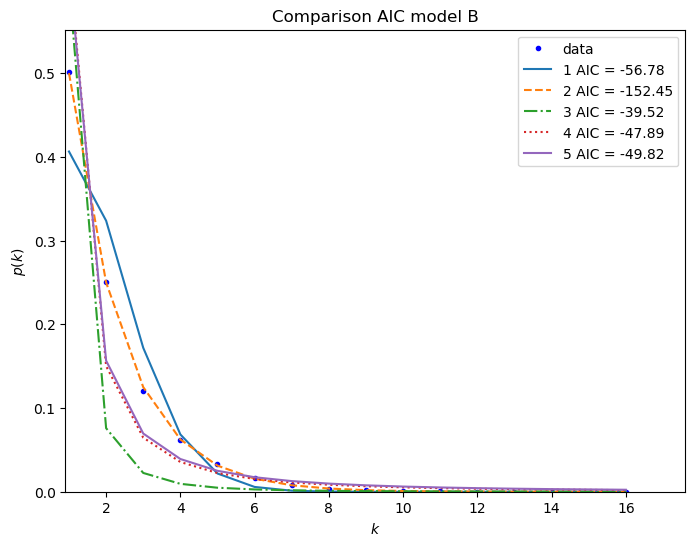
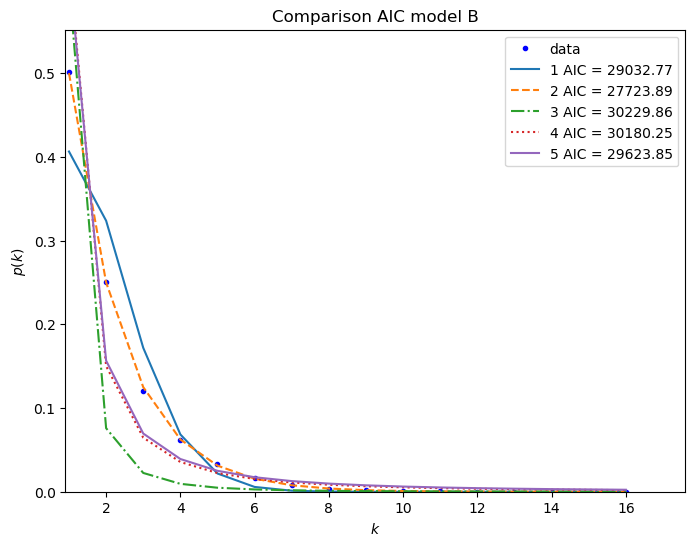
Fix AIC for MLE

Changed region(s): [[0.7221, 0.0623, 0.9628, 0.3114], [0.7221, 0.1245, 0.7521, 0.3114]]

diff --git a/lab6/fitcore.py b/lab6/fitcore.py
@@ -97,7 +97,7 @@ class Fit:
 		self.verbose = verbose
 		self.loss = 'soft_l1'
 		self.info = info
-		self.use_mle = mle
+		self.mle = mle
 		self.evolution = evolution
 
 		# Models should be initialized before, so we can add fine params at the
@@ -125,7 +125,7 @@ class Fit:
 
 		warnings.filterwarnings("ignore")
 
-		if self.use_mle:
+		if self.mle:
 			return self.fit_model_mle(model)
 
 		try:
@@ -166,6 +166,31 @@ class Fit:
 
 		model.measures = {'AIC':AIC, 'RSS':RSS} 
 
+	def measure_model_mle(self, model):
+		n = self.n
+		x = self.x
+		y = self.y
+
+		# Compute residual sum of squares RSS
+		L = model.mll(*model.fitted_params)
+		yy = model.run(x)
+		RSS = np.sum((y - yy)**2)
+
+		# Compute Akaike information criterion
+		# XXX Ugly hack: How we access N?
+		N = model.info['N']
+		K = model.get_nparams()
+		AIC = 2*L - 2*K*(N/(N-K-1))
+
+		p = 0
+		AIC2 = n*np.log(2*np.pi) + n*np.log(RSS/n) + n + 2*(p + 1)
+		print('AIC = {} AIC2 = {}'.format(AIC, AIC2))
+
+		# Compute pearson r
+		#pr, pval = pearsonr(y, yy)
+
+		model.measures = {'AIC':AIC, 'AIC2':AIC2, 'RSS':RSS} 
+
 	def best_model(self, measure):
 		if measure == 'AIC':
 			AICs = [m.measures[measure] for m in self.models]
@@ -178,7 +203,10 @@ class Fit:
 			if(self.verbose):
 				print("  Testing model {}".format(model.get_name()))
 			self.fit_model(model)
-			self.measure_model(model)
+			if self.mle == True:
+				self.measure_model_mle(model)
+			else:
+				self.measure_model(model)
 
 class TeXTable:
 	def __init__(self, fits):

diff --git a/lab6/table/AIC_dd.tex b/lab6/table/AIC_dd.tex
@@ -1,11 +1,11 @@
 \begin{tabular}{rrrr}
 \toprule
-     &      A &       B &       C \\
+     &        A &        B &        C \\
 \midrule
-   1 & \num{96.625} &  \num{95.676} &   \num{0.000} \\
-   2 & \num{52.683} &   \num{0.000} &   \num{7.687} \\
-   3 & \num{62.506} & \num{112.933} & \num{108.152} \\
-   4 & \num{32.408} & \num{104.567} & \num{108.202} \\
-   5 &  \num{0.000} & \num{102.636} & \num{110.078} \\
+   1 & \num{7245.741} & \num{1308.885} &  \num{776.040} \\
+   2 & \num{1097.608} &    \num{0.000} &    \num{0.000} \\
+   3 &  \num{606.012} & \num{2505.972} & \num{6112.841} \\
+   4 &  \num{359.648} & \num{2456.367} & \num{6110.839} \\
+   5 &    \num{0.000} & \num{1899.960} & \num{5988.746} \\
 \bottomrule
 \end{tabular}

diff --git a/lab6/fit_dd.py b/lab6/fit_dd.py
@@ -16,6 +16,7 @@ GRAPH_MODELS = np.arange(N_GRAPH_MODELS) + 1
 
 # Reproducible runs
 np.random.seed(1)
+VERBOSE=0
 
 # BA models
 
@@ -212,7 +213,7 @@ def compute_info(data):
 
 def fit_model(name, models):
 	data, info = prepare_data(name)
-	fit = Fit(name, data, models, verbose=3, info=info, mle=True)
+	fit = Fit(name, data, models, verbose=VERBOSE, info=info, mle=True)
 	print('BA model {}'.format(name))
 	for i in range(len(models)):
 		model = fit.models[i]

diff --git a/lab6/fit_dt.py b/lab6/fit_dt.py
@@ -12,7 +12,7 @@ from fitcore import *
 
 # Reproducible runs
 np.random.seed(1)
-VERBOSE = 2
+VERBOSE = 0
 FIT_MEAN = True
 
 # BA models
